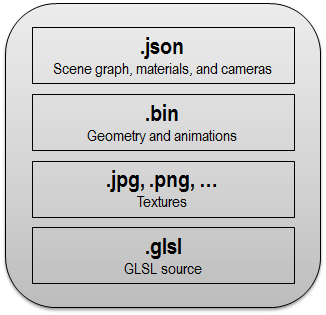
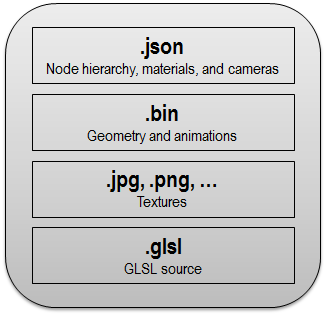
Renamed scene graph to node hierarchy

Changed region(s): [[0.1227, 0.2, 0.8589, 0.2571]]

diff --git a/specification/README.md b/specification/README.md
@@ -92,10 +92,10 @@ Applications seeking high-performance, such as games, rarely load COLLADA or mod
 
 Another perspective that motivates glTF is that 3D is the last media type without a standard codec.  Audio has mp3.  Video has H.264.  Images have png and jpg.  What does 3D content have?  The variety of use cases and complexity and variety of 3D asset types have left 3D without a standard codec.  A cross-vendor standard will allow for portable, reusable content, unified asset repositories and archives, and enable optimized codec implementations in hardware and software. 
 
-> Non-normative: the COLLADA Working Group is developing partnerships to define the codec options for geometry compression.  glTF defines the scene graph, materials, animations, and geometry, and will reference the external compression specs. 
+> Non-normative: the COLLADA Working Group is developing partnerships to define the codec options for geometry compression.  glTF defines the node hierarchy, materials, animations, and geometry, and will reference the external compression specs. 
 
 Concretely, a glTF asset is represented by:
-* JSON file (`.json`) containing the scene graph, materials, and cameras
+* JSON file (`.json`) containing the node hierarchy, materials, and cameras
 * Binary files (`.bin`) containing geometry and animations
 * Image files (`.jpg`, `.png`, etc.) for textures
 * GLSL text files (`.glsl`) for GLSL source code for individual stages
@@ -123,7 +123,7 @@ glTF is a runtime asset format; not an interchange format.  Its primary use case
 * Ease of runtime application development, i.e., easy to render
 
 To achieve this:
-* glTF uses [JSON](http://www.json.org/) for the scene graph, materials, and cameras.  JSON is compact, especially compared to XML, and minifies and compresses well.  For WebGL users, JSON parases in a single line of JavaScript using `JSON.parse`.  Free JSON libraries are also available for all major languages.
+* glTF uses [JSON](http://www.json.org/) for the node hierarchy, materials, and cameras.  JSON is compact, especially compared to XML, and minifies and compresses well.  For WebGL users, JSON parases in a single line of JavaScript using `JSON.parse`.  Free JSON libraries are also available for all major languages.
 * glTF stores geometry using binary, which allows efficient creation of GL buffers - as opposed to COLLADA, for example, where geometry is stored in XML).  With the exception of potential decompression, geometry from glTF can be provided to GL directly with [`bufferData`](http://www.khronos.org/opengles/sdk/docs/man/xhtml/glBufferData.xml) or [`bufferSubData`](http://www.khronos.org/opengles/sdk/docs/man/xhtml/glBufferSubData.xml).
 * glTF provides a streamlined set of features, relying on a content pipeline to do as much preprocessing as possible so the runtime application can efficiently load and render assets.  In particular:
    * glTF only supports variations of triangle, line, and point primitives.  It does not support more complex primitives found in modeling-tool formats like polygons and splines.  Instead, complex primitives are converted to triangles in the content pipeline.
@@ -142,7 +142,7 @@ _TODO: pipeline diagram and opitonal optimization diagram._
 
 To make it easy for applications to implement, glTF is designed with the GL APIs in mind; in particular, the limitations of WebGL.
 
-glTF tries to balance the tradeoffs between simplicity and completeness.  For example, although geometry, images, and shaders map easily to the GL APIs, they do not provide enough.  To make glTF broadly useful, glTF includes a scene graph, materials, and animations.  Leaving out the scene graph would hinder interaction with individual model nodes. Likewise leaving out materials and animations would leave out key functionality common to most applications.
+glTF tries to balance the tradeoffs between simplicity and completeness.  For example, although geometry, images, and shaders map easily to the GL APIs, they do not provide enough.  To make glTF broadly useful, glTF includes a node hierarchy, materials, and animations.  Leaving out the node hierarchy would hinder interaction with individual model nodes. Likewise leaving out materials and animations would leave out key functionality common to most applications.
 
 To help map between glTF and GL:
 * glTF properties commonly map to GL functions and function arguments.  For example, the <a href="#meshAttribute">`attribute (mesh)`</a> glTF property maps closely to the [`vertexAttribPointer`](http://www.khronos.org/opengles/sdk/docs/man/xhtml/glVertexAttribPointer.xml) GL function, and the <a href="#states">`states`</a> glTF property naming maps directly to GL functions.
@@ -179,7 +179,7 @@ glTF is streamlined for rendering so it doesn't have as many options or as much 
 
 ## Extensibility
 
-glTF is streamlined for rendering so it does not include features tightly coupled with a particular application or niche vertical market.  Instead, glTF provides the foundations common to rendering assets - a scene graph, materials, animations, and geometry - and provides extensibility via <a href="#conventions-extra">`extra`</a> properties.  This allows applications to add specific metadata to glTF assets without burdening other application developers to support features.
+glTF is streamlined for rendering so it does not include features tightly coupled with a particular application or niche vertical market.  Instead, glTF provides the foundations common to rendering assets - a node hierarchy, materials, animations, and geometry - and provides extensibility via <a href="#conventions-extra">`extra`</a> properties.  This allows applications to add specific metadata to glTF assets without burdening other application developers to support features.
 
 ## Allows Conformance Testing
 
